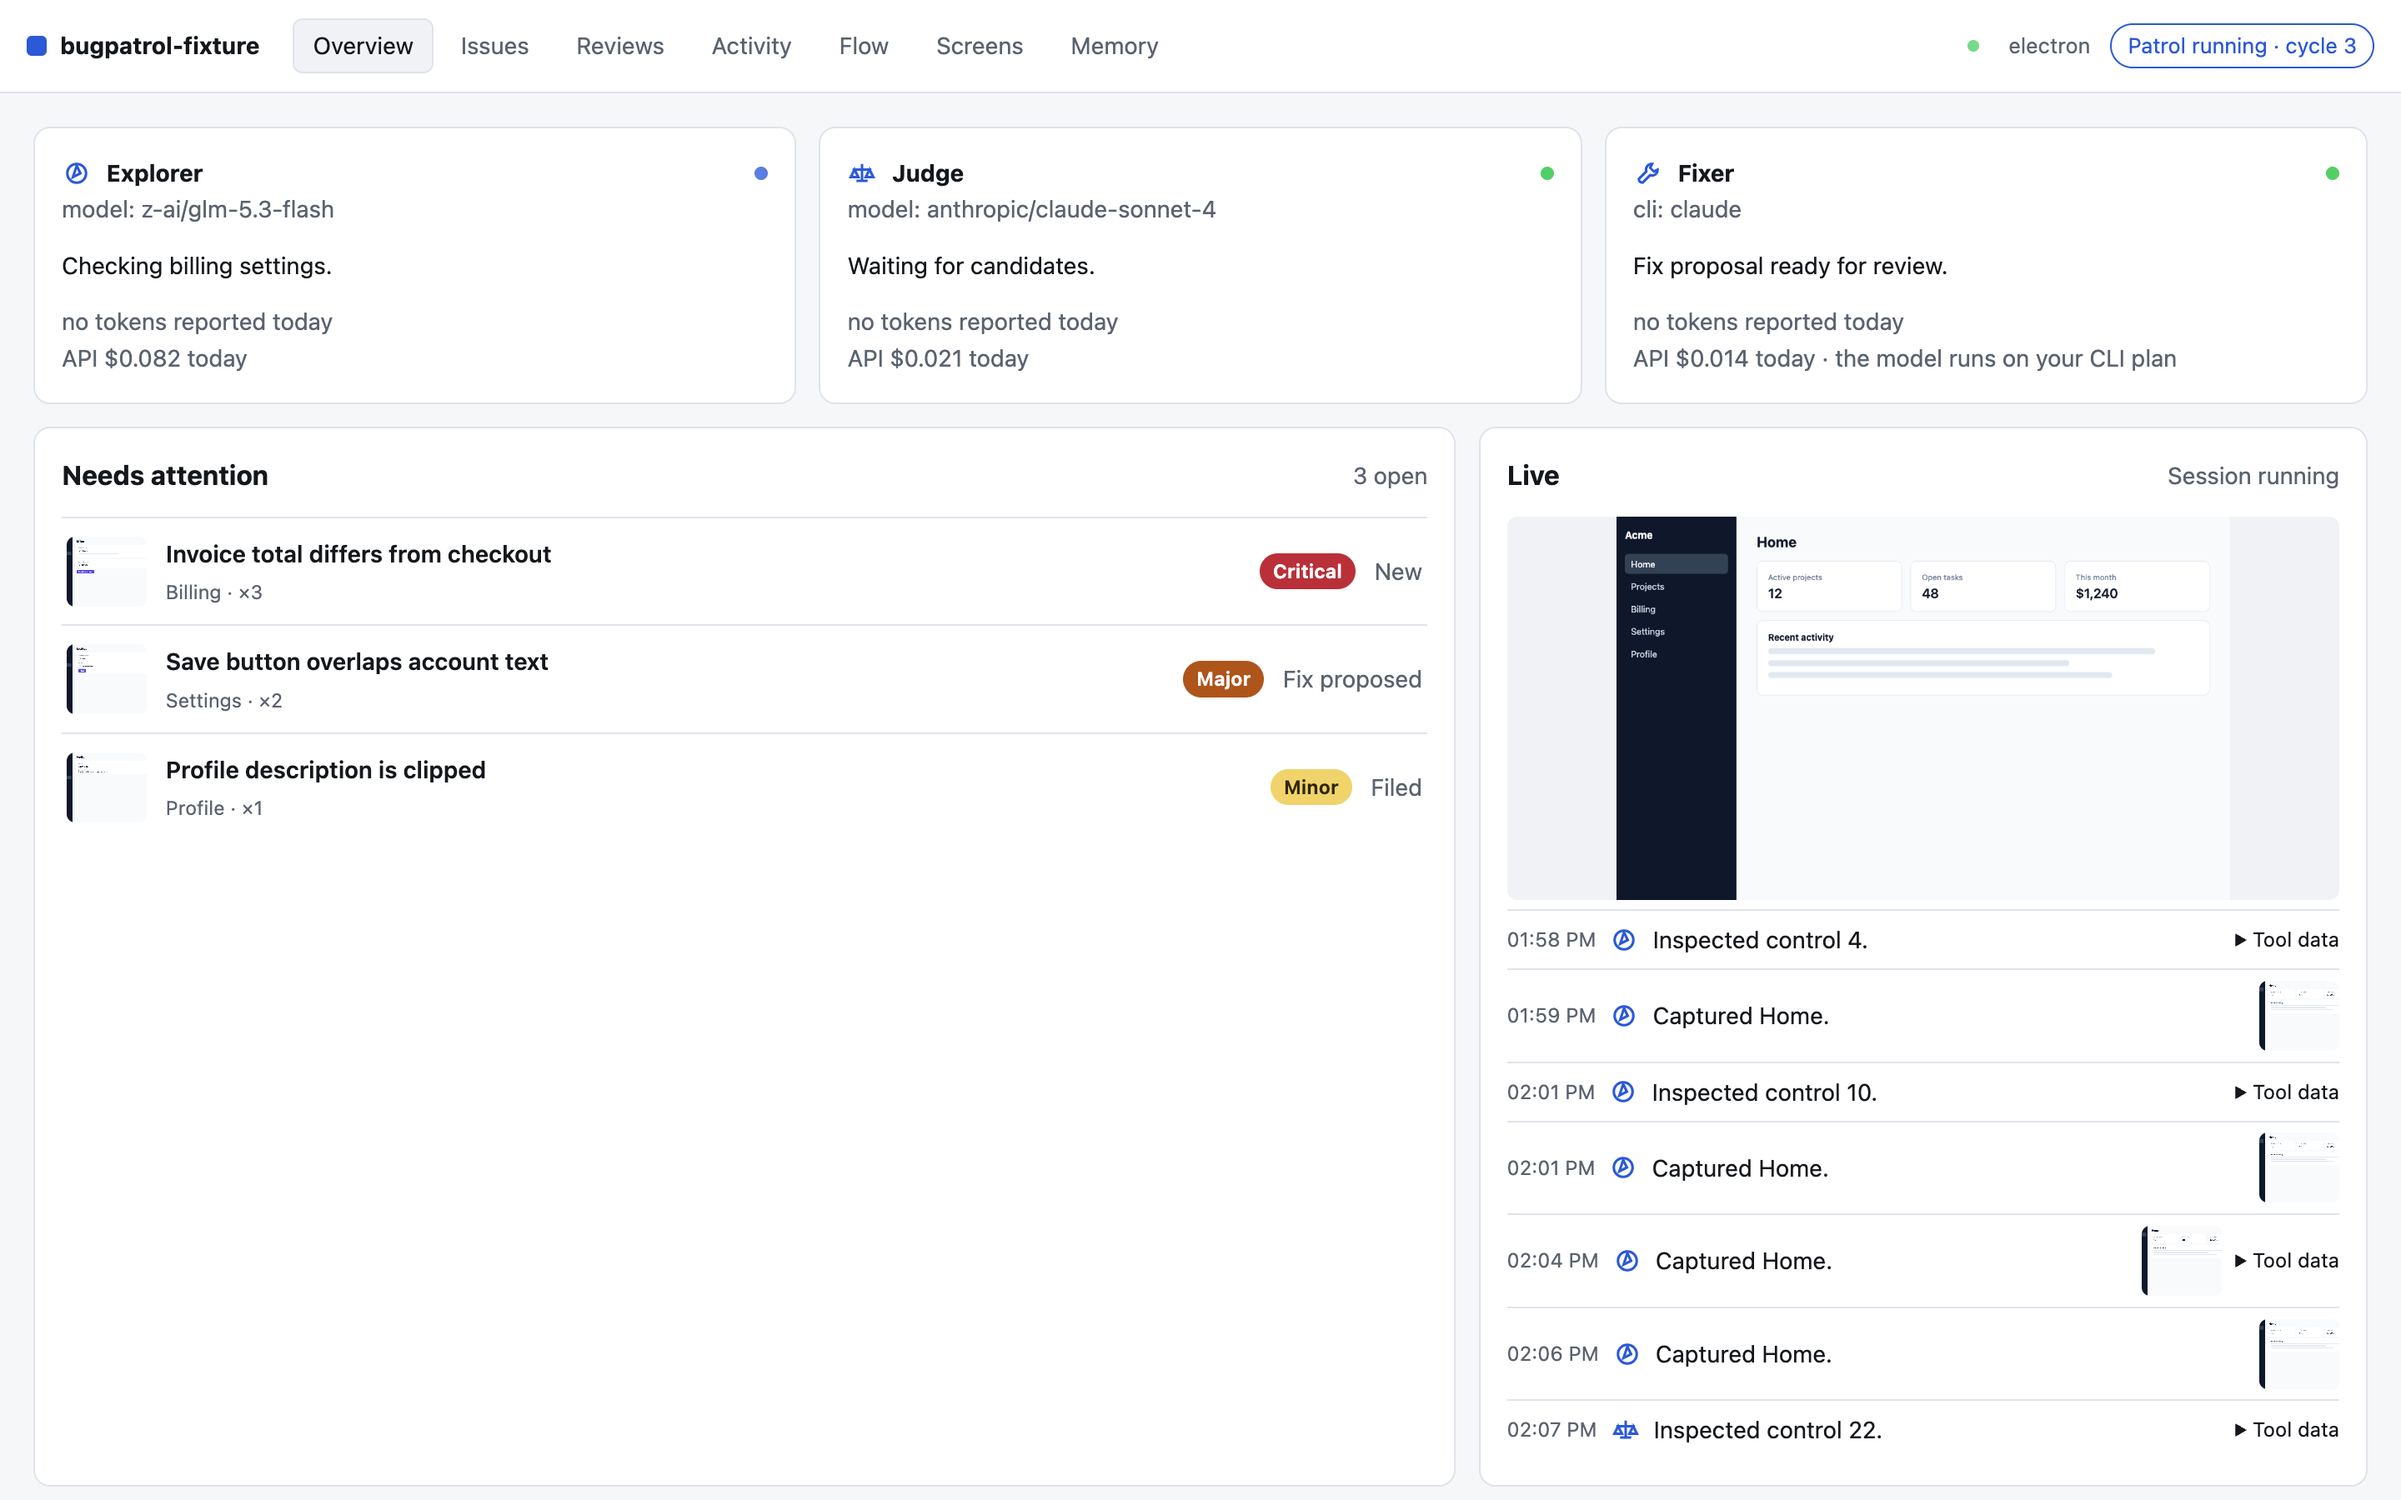
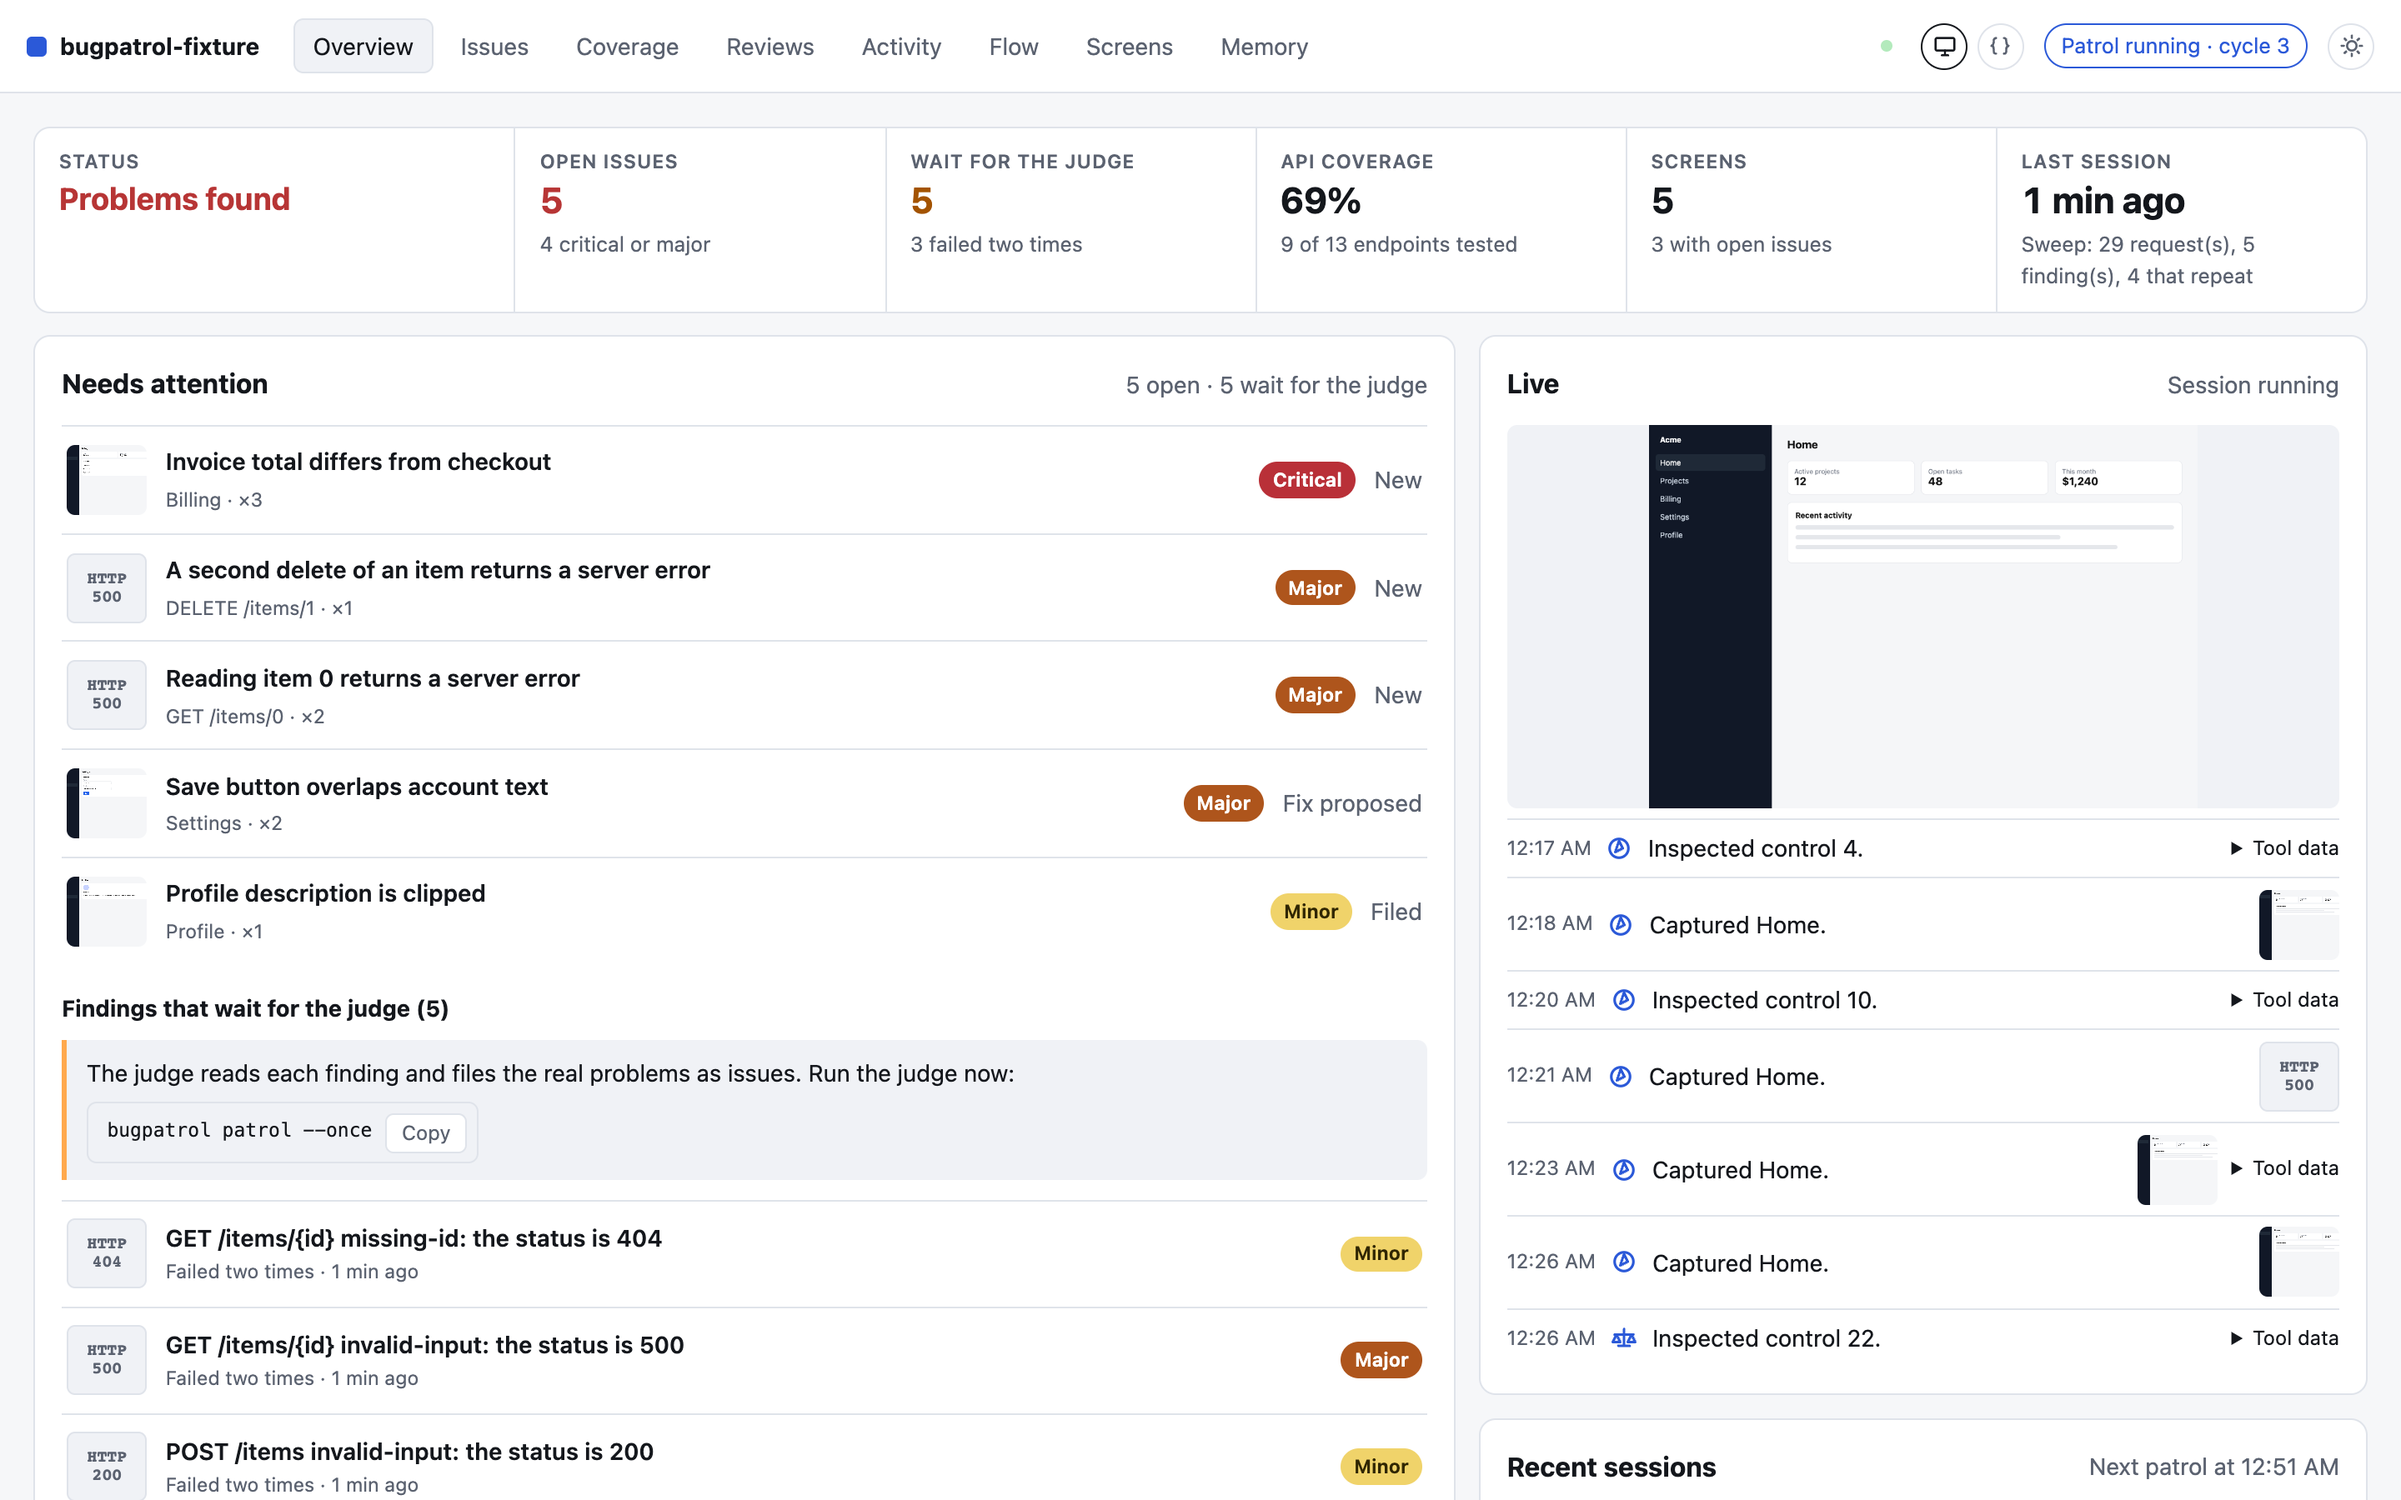
docs: show the new dashboard in the README image (#100)
The README and the dashboard docs showed the old Overview. The new image
shows the status band, the findings that wait for the judge, and the
icons in the top bar.

diff --git a/docs/dashboard.md b/docs/dashboard.md
@@ -6,7 +6,7 @@ npx bugpatrol dashboard --port 5000  # use a different port
 npx bugpatrol dashboard --config .bugpatrol/api.yml  # read another config
 ```
 
-<img src="../assets/dashboard.png" alt="The Bugpatrol dashboard: the agent cards, the issues that need attention, and the live screen." width="100%">
+<img src="../assets/dashboard.png" alt="The Bugpatrol dashboard: the status band, the issues and findings that need attention, and the live screen." width="100%">
 
 The dashboard shows agent activity and results. Start it in the repo that has `.bugpatrol/`. It reads the files under `.bugpatrol/runs/` and updates live, so it works during a patrol and after it.
 

diff --git a/README.md b/README.md
@@ -52,7 +52,7 @@ flowchart TB
 
 [How it works](docs/how-it-works.md#the-patrol) tells when the patrol runs, and shows each step of the explore loop.
 
-<img src="assets/dashboard.png" alt="The Bugpatrol dashboard: the agent cards, the issues that need attention, and the live screen." width="100%">
+<img src="assets/dashboard.png" alt="The Bugpatrol dashboard: the status band, the issues and findings that need attention, and the live screen." width="100%">
 
 <p align="center"><em>The dashboard (<code>npx bugpatrol dashboard</code>) shows what each agent does, live.</em></p>
 
